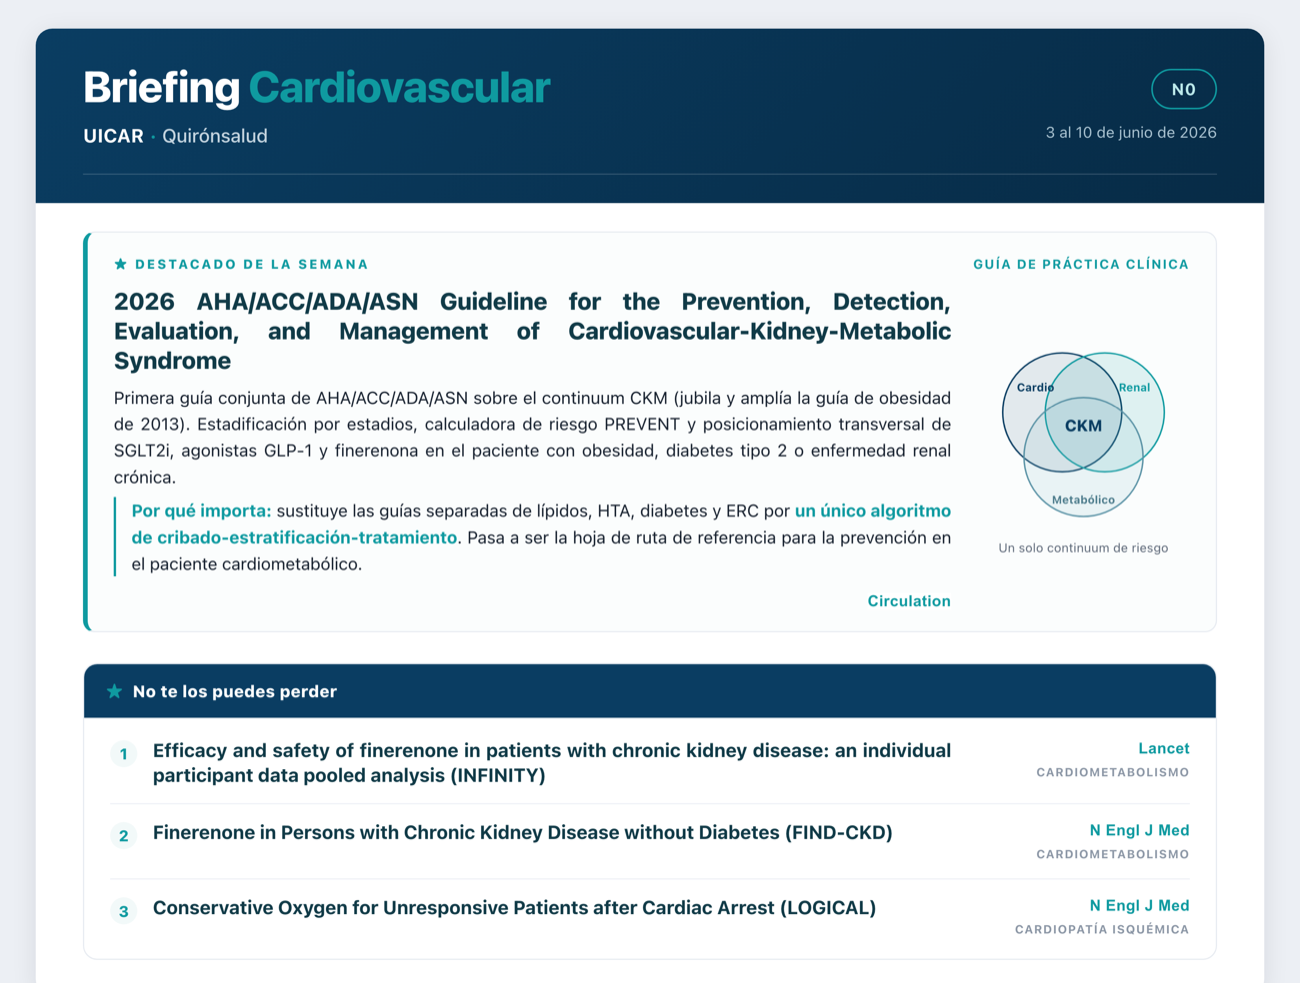
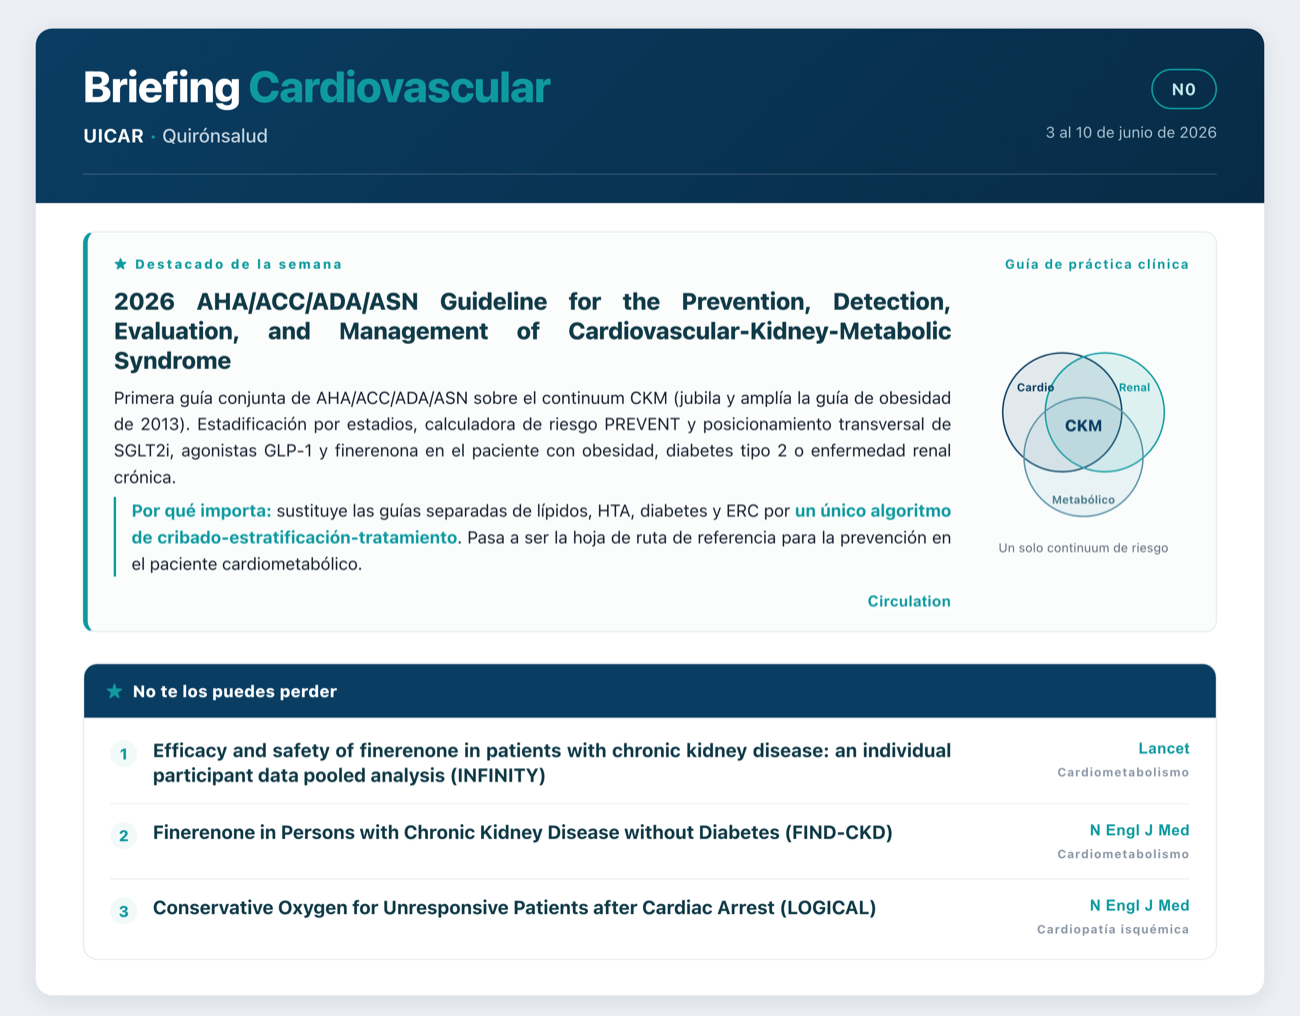
N0: quitar mayúsculas forzadas (text-transform) en etiquetas de sección, tipo de estudio y modales — formato frase

diff --git a/n0/index.html b/n0/index.html
@@ -51,7 +51,7 @@
   .destacado{margin:0 0 6px;border:1px solid var(--linea);border-left:4px solid var(--teal);
     border-radius:10px;background:#fbfdfd;padding:18px 22px;}
   .destacado .d-top{display:flex;align-items:center;justify-content:space-between;gap:10px;flex-wrap:wrap;margin-bottom:4px;}
-  .destacado .d-kicker{font-size:11px;font-weight:800;letter-spacing:.16em;text-transform:uppercase;color:var(--teal);}
+  .destacado .d-kicker{font-size:11px;font-weight:800;letter-spacing:.16em;text-transform:none;color:var(--teal);}
   .destacado .d-grid{display:grid;grid-template-columns:1fr 180px;gap:22px;align-items:center;margin-top:6px;}
   .destacado h2{margin:4px 0 8px;font-size:20px;line-height:1.25;color:var(--titulo);font-weight:800;text-align:justify;}
   .destacado p{margin:6px 0;font-size:14.5px;text-align:justify;}
@@ -72,11 +72,11 @@
     text-align:justify;display:block;cursor:pointer;}
   .top3 .t3t:hover{color:var(--teal);}
   .top3 .t3aside{text-align:right;display:flex;flex-direction:column;align-items:flex-end;gap:5px;padding-top:2px;}
-  .top3 .t3s{font-size:10px;font-weight:700;letter-spacing:.07em;text-transform:uppercase;color:var(--suave);}
+  .top3 .t3s{font-size:10px;font-weight:700;letter-spacing:.07em;text-transform:none;color:var(--suave);}
 
   /* ÍNDICE / SECCIONES */
   .indice{margin:24px 0 4px;border:1px solid var(--linea);border-radius:10px;padding:6px;}
-  .indice h3{margin:6px 12px 8px;font-size:11px;letter-spacing:.14em;text-transform:uppercase;color:var(--suave);}
+  .indice h3{margin:6px 12px 8px;font-size:11px;letter-spacing:.14em;text-transform:none;color:var(--suave);}
   .indice ol{margin:0;padding:0;list-style:none;display:grid;grid-template-columns:1fr 1fr;gap:1px;}
   .indice li .ix{display:flex;justify-content:flex-start;align-items:center;gap:8px;cursor:pointer;text-decoration:none;
     color:var(--ink);font-size:14.5px;padding:8px 16px;border-radius:7px;}
@@ -94,7 +94,7 @@
   .dot{display:inline-block;width:9px;height:9px;border-radius:50%;}
   .d-alto{background:var(--imp-alto);} .d-medio{background:var(--imp-medio);} .d-bajo{background:var(--imp-bajo);}
 
-  .ptype{font-size:11px;font-weight:700;letter-spacing:.1em;text-transform:uppercase;color:var(--teal);}
+  .ptype{font-size:11px;font-weight:700;letter-spacing:.1em;text-transform:none;color:var(--teal);}
   .impact{display:inline-flex;align-items:center;gap:6px;font-size:11px;color:var(--suave);letter-spacing:.02em;}
 
   /* WORDMARK DE REVISTA (= enlace) — verde turquesa, hover elegante + subrayado */
@@ -184,7 +184,7 @@
   .cmodal-box{position:relative;z-index:1;background:#fff;max-width:700px;width:100%;max-height:88vh;overflow-y:auto;-webkit-overflow-scrolling:touch;border-radius:14px;padding:26px 30px 30px;box-shadow:0 18px 50px rgba(0,0,0,.35);}
   .cmodal-x{position:absolute;top:6px;right:16px;font-size:30px;line-height:1;color:var(--suave);text-decoration:none;cursor:pointer;}
   .cmodal-x:hover{color:var(--navy);}
-  .modal-type{font-size:11px;font-weight:700;letter-spacing:.1em;text-transform:uppercase;color:var(--teal);margin-bottom:8px;}
+  .modal-type{font-size:11px;font-weight:700;letter-spacing:.1em;text-transform:none;color:var(--teal);margin-bottom:8px;}
   .modal-title{margin:0 0 16px;font-size:20px;font-weight:800;color:var(--titulo);line-height:1.3;padding-right:26px;}
   .modal-body{font-size:14.5px;color:#37414f;line-height:1.6;text-align:justify;}
   .modal-body p{margin:0 0 11px;} .modal-body b{color:var(--navy);}